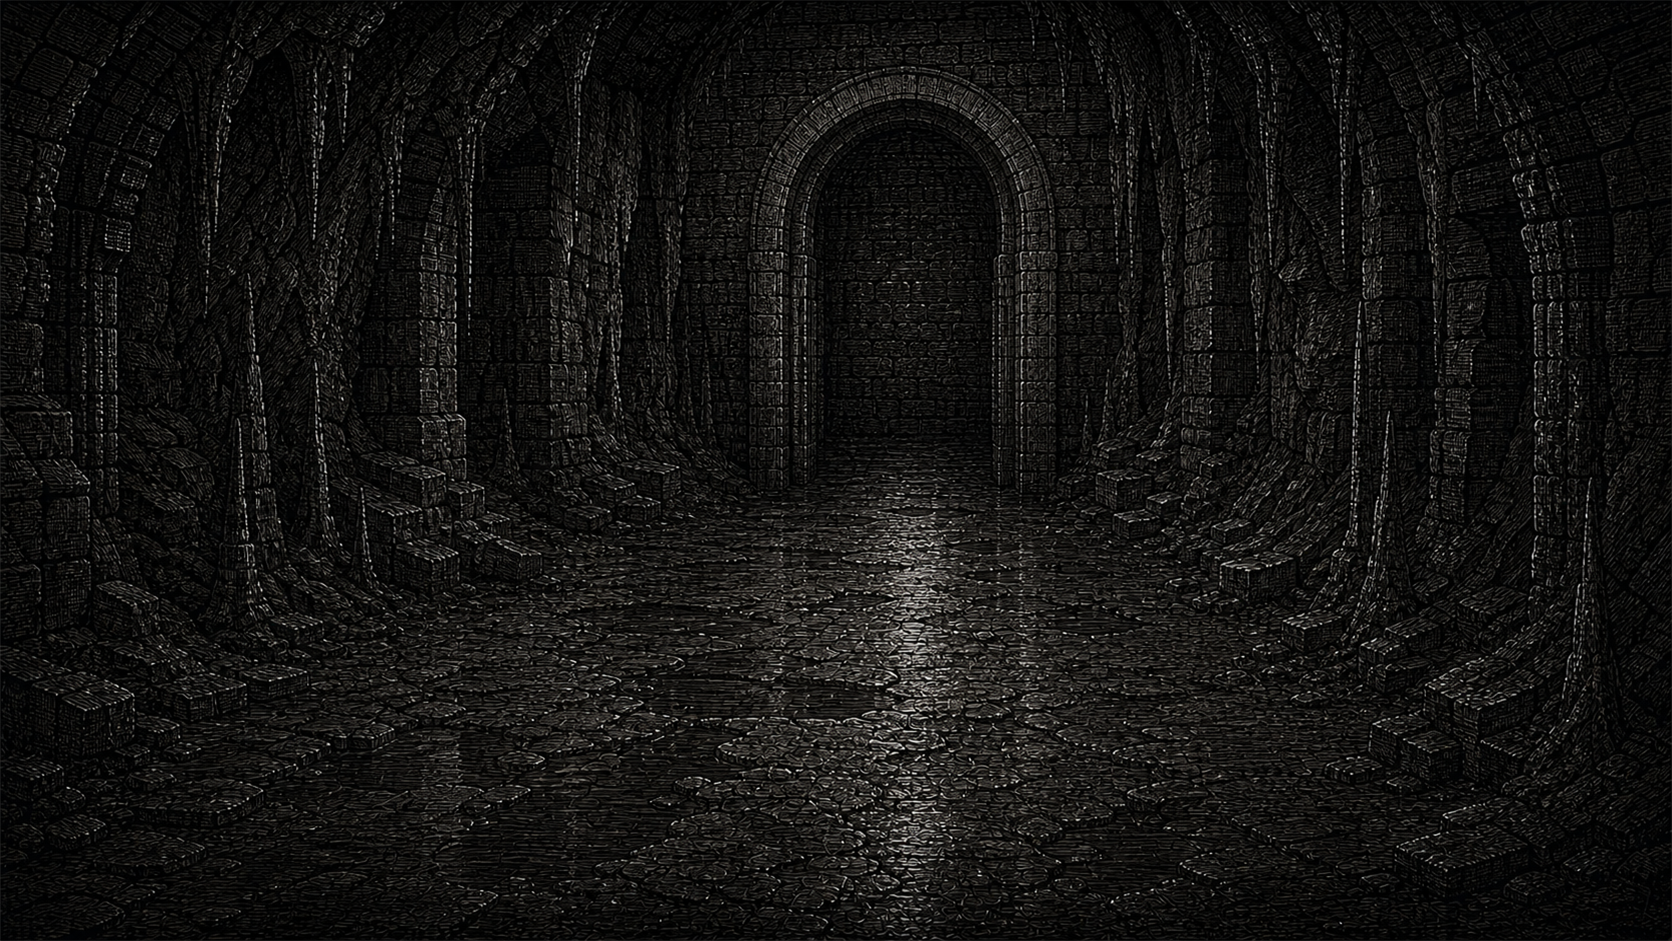
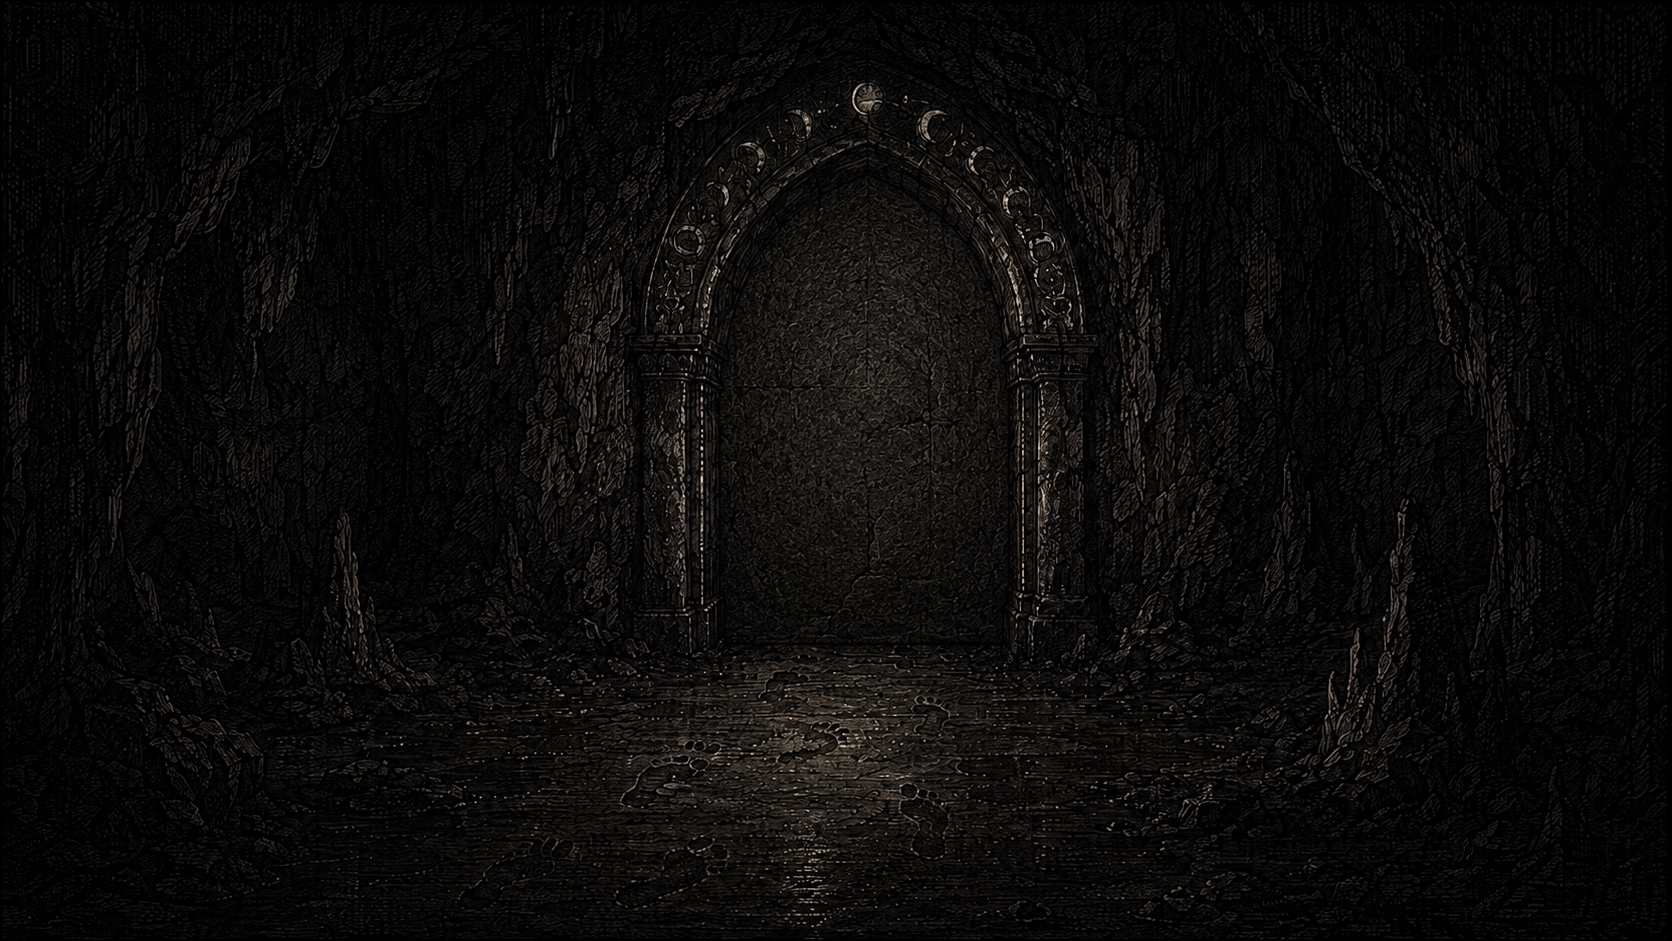
act 1 root strrets pre final

diff --git a/ROADMAP.md b/ROADMAP.md
@@ -1,0 +1,42 @@
+# Роадмап
+
+## Правило вечернего напоминания
+
+Когда я пишу вечером, сначала напомни мне:
+
+1. Что запланировано на сегодня.
+2. Что уже сделано.
+3. Какой следующий маленький шаг.
+
+## 2026-07-04
+
+### Главная цель
+
+- [ ] Доделать сцену Эйлин до цельного игрового прохода.
+
+### Минимум
+
+- [ ] Сделать текст и переходы по нужным таймингам.
+- [ ] Сделать плавный выход из сцены.
+- [ ] Написать текст для сцены спасения героя стражем Рикарда.
+
+### Если останутся силы
+
+- [ ] Написать черновик текста песни.
+- [ ] Разобраться, как при смене персонажей в одной сцене убирать тень.
+
+## 2026-07-05
+
+### Главная цель
+
+- [ ] Доделать ассеты и полировку для исследования Морвейна.
+
+### Минимум
+
+- [ ] Сделать музыку для изучения колодца и переулков Морвейна.
+- [ ] Сделать новый задник для переулков Морвейна.
+
+### Если останутся силы
+
+- [ ] Доработать или финализировать текст песни для сцены Эйлин.
+- [ ] Применить решение с тенью персонажей, если накануне получилось только разобраться.